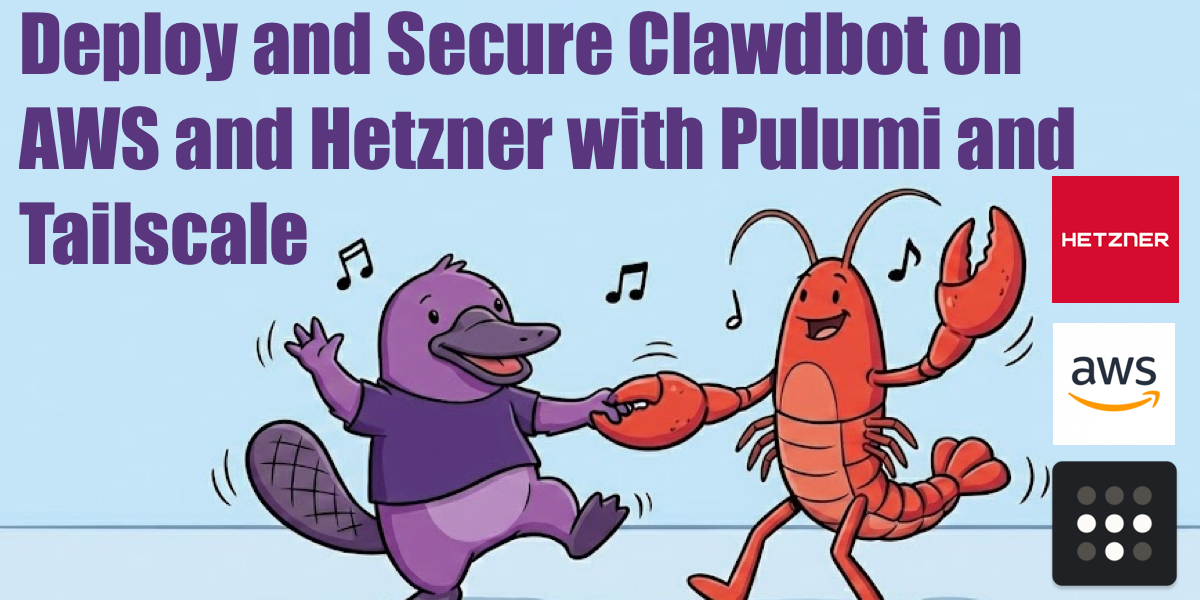
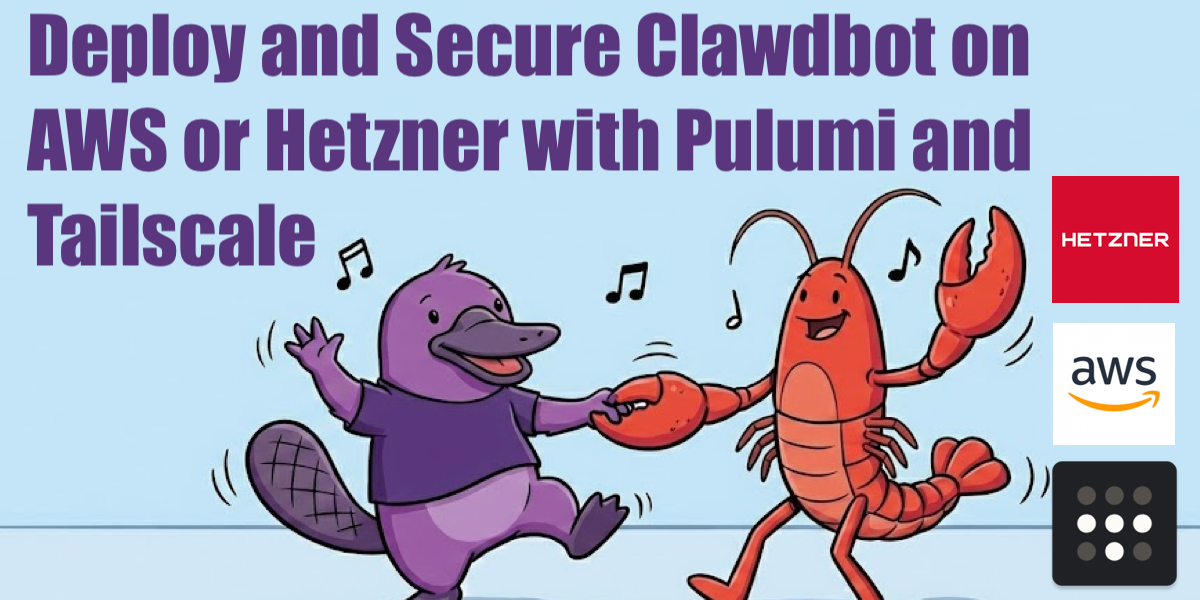
Address Joe's review feedback

Changed region(s): [[0.0, 0.0, 0.8633, 0.15], [0.0, 0.18, 0.8942, 0.3], [0.0, 0.33, 0.2775, 0.45]]

diff --git a/content/blog/deploy-clawdbot-aws-hetzner/index.md b/content/blog/deploy-clawdbot-aws-hetzner/index.md
@@ -1,5 +1,5 @@
 ---
-title: "Deploy and Secure Clawdbot on AWS and Hetzner with Pulumi and Tailscale"
+title: "Deploy and Secure Clawdbot on AWS or Hetzner with Pulumi and Tailscale"
 allow_long_title: true
 date: 2026-01-26
 meta_desc: "Deploy Clawdbot, an open-source AI assistant, to AWS and Hetzner using Pulumi with Tailscale for secure private access."
@@ -35,7 +35,7 @@ With all this hype, I had to try it myself. But instead of clicking through the 
 
 ![Dan's tweet suggesting Hetzner VMs instead of Mac Minis for Clawdbot](dan-hetzner-tweet.png)
 
-In this post, I'll show you how to deploy [Clawdbot](https://clawd.bot/) to AWS or, for European data residency or cost-conscious folks, Hetzner Cloud—using Pulumi for infrastructure as code and Tailscale to keep your AI assistant off the public internet.
+In this post, I'll show you how to deploy [Clawdbot](https://clawd.bot/) to AWS or Hetzner Cloud (if you want European data residency or just want to spend less). We'll use Pulumi to define the infrastructure and Tailscale to keep your AI assistant off the public internet.
 
 <!--more-->
 
@@ -75,7 +75,7 @@ The Gateway connects to messaging platforms (WhatsApp, Slack, Discord, etc.), th
 
 ## Setting up ESC for secrets management
 
-Deploying Clawdbot requires sensitive credentials: your Anthropic API key, Tailscale auth key, and cloud provider tokens. Rather than hardcoding these in your codebase or juggling environment variables, we'll use [Pulumi ESC (Environments, Secrets, and Configuration)](/docs/esc/) to store them securely and pass them directly to your Pulumi program.
+Deploying Clawdbot means handling sensitive credentials: API keys, auth tokens, cloud provider secrets. You don't want these hardcoded or scattered across environment variables. [Pulumi ESC (Environments, Secrets, and Configuration)](/docs/esc/) stores them securely and passes them directly to your Pulumi program.
 
 Create a new ESC environment:
 
@@ -158,7 +158,7 @@ Do not use `t3.micro` instances for Clawdbot. The 1 GB memory is insufficient fo
 
 ### The Pulumi program
 
-Running Clawdbot on AWS requires several resources: a VPC with subnets and routing, security groups to control network access, an EC2 instance with the right AMI and instance type, SSH keys, and a cloud-init script that installs Docker, Node.js, Clawdbot, and Tailscale. Rather than clicking through the AWS console or writing fragile shell scripts, we express all of this in code.
+Running Clawdbot on AWS means setting up a VPC, subnets, security groups, an EC2 instance, SSH keys, and a cloud-init script that installs everything. That's a lot of clicking in the AWS console. The Pulumi program below defines all of it in code.
 
 Replace the contents of `index.ts` with the following:
 
@@ -411,7 +411,7 @@ export const gatewayTokenOutput = gatewayToken;
 
 Hetzner Cloud is a solid choice if you need European data residency or want to spend less money. Spoiler: it's a lot less money.
 
-Hetzner offers similar compute services to AWS, but the names and configurations differ slightly. Instead of EC2 instances, you create Servers. Instead of security groups, you use Firewalls. The principles are the same—we're still defining infrastructure in code—but the resource types come from the `@pulumi/hcloud` provider.
+Hetzner has similar concepts to AWS but different names. EC2 instances become Servers. Security groups become Firewalls. Same idea, different provider. The resource types come from `@pulumi/hcloud`.
 
 Create a new project for Hetzner:
 
